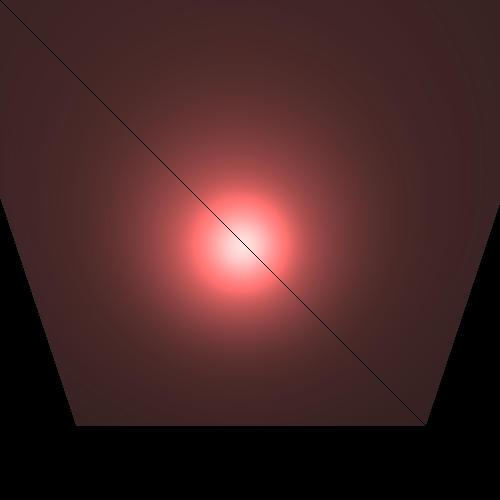
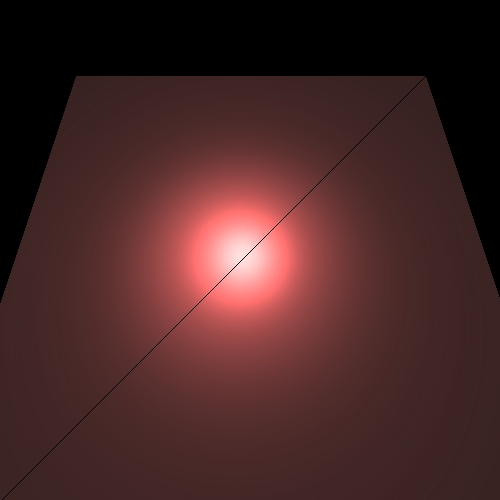
(2)

diff --git a/src/unittests/RenderTest.java b/src/unittests/RenderTest.java
@@ -49,8 +49,8 @@ public class RenderTest {
 	@Test
 	void spotLightTest(){
 		Scene scene = new Scene("spotLightTest");
-
-        Triangle triangle = new Triangle(new Color(40, 29, 28),new Point3D(  -3500,  3500, -2000),
+		scene.setCameraAndDistance(new Camera(scene.getCamera().getP0(),new vector(0,1,0),scene.getCamera().getvTo()),100);
+		Triangle triangle = new Triangle(new Color(40, 29, 28),new Point3D(  -3500,  3500, -2000),
                 new Point3D( 3500, -3500, -1000),
                 new Point3D(  3500, 3500, -2000));
 
@@ -75,7 +75,7 @@ public class RenderTest {
 	@Test
 	void pointLightTest(){
 		Scene scene = new Scene("pointLightTest");
-
+		scene.setCameraAndDistance(new Camera(scene.getCamera().getP0(),new vector(0,1,0),scene.getCamera().getvTo()),100);
 		Triangle triangle = new Triangle(new Color(40, 29, 28),new Point3D(  -3500,  3500, -2000),
 				new Point3D(  3500, 3500, -2000),new Point3D( 3500, -3500, -1000)
 				);
